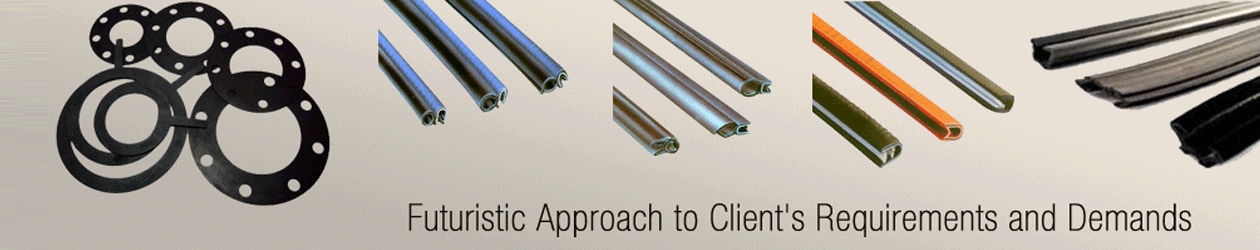
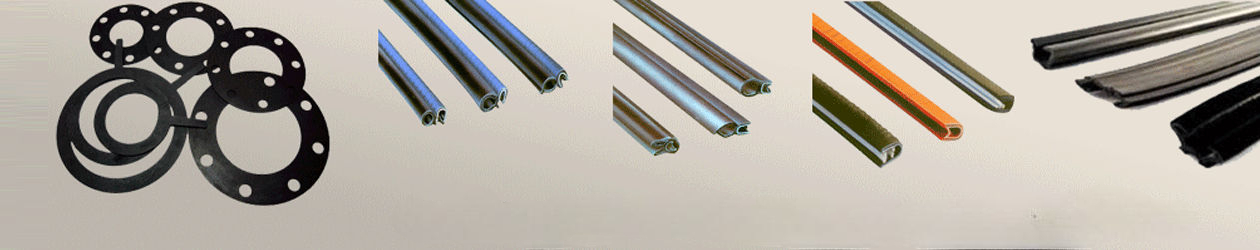
first commit

Changed region(s): [[0.3095, 0.812, 0.9595, 0.952], [0.7429, 0.98, 0.8667, 1.0]]

diff --git a/css/style.css b/css/style.css
@@ -906,7 +906,7 @@ footer a {
 
 .contact-header {
     position: relative;
-    background-image: url('../img/header-bg.jpeg');
+    background-image: url(../img/template_photo_contact-us.jpg);
     background-size: cover;
     background-position: center;
     padding: 200px 0 100px 0;
@@ -922,7 +922,7 @@ footer a {
     content: '';
     position: absolute;
     top: 0;
-    opacity: 0.2;
+    opacity: 0.3;
     left: 0;
     right: 0;
     bottom: 0;

diff --git a/service.html b/service.html
@@ -71,7 +71,7 @@
     <section class="contact-header">
         <div class="header-content">
             <h1 class="header-title">
-                Our <span class="highlight">Service </span>
+                Our Service
             </h1>
             <nav aria-label="breadcrumb">
                 <ol class="breadcrumb">

diff --git a/contact.html b/contact.html
@@ -69,7 +69,7 @@
     <section class="contact-header">
         <div class="header-content">
             <h1 class="header-title">
-                <span class="highlight">Contact </span>Us
+                Contact Us
             </h1>
             <nav aria-label="breadcrumb">
                 <ol class="breadcrumb">

diff --git a/our-products.html b/our-products.html
@@ -70,7 +70,7 @@
     <section class="contact-header">
         <div class="header-content">
             <h1 class="header-title">Our
-                <span class="highlight">Products</span>
+                Products
             </h1>
             <nav aria-label="breadcrumb">
                 <ol class="breadcrumb">

diff --git a/blog.html b/blog.html
@@ -71,7 +71,7 @@
     <section class="contact-header">
         <div class="header-content">
             <h1 class="header-title">
-                Our <span class="highlight">blog </span>
+                Our blog
             </h1>
             <nav aria-label="breadcrumb">
                 <ol class="breadcrumb">

diff --git a/about.html b/about.html
@@ -70,7 +70,7 @@
     <section class="contact-header">
         <div class="header-content">
             <h1 class="header-title">
-                <span class="highlight">About</span> Us
+                About Us
             </h1>
             <nav aria-label="breadcrumb">
                 <ol class="breadcrumb">
